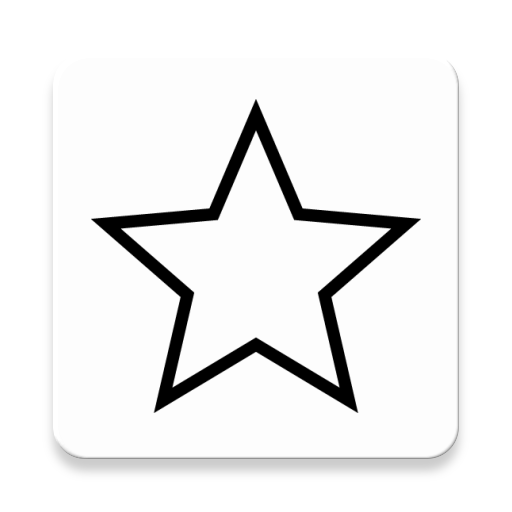
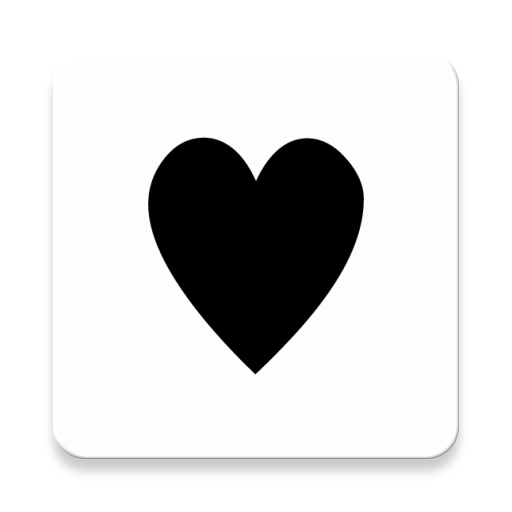
Eight Commit

Changed region(s): [[0.1875, 0.1875, 0.8125, 0.8125]]

diff --git a/app/src/main/java/com/codepath/apps/mysimpletweets/TweetsArrayAdapter.java b/app/src/main/java/com/codepath/apps/mysimpletweets/TweetsArrayAdapter.java
@@ -130,16 +130,25 @@ public class TweetsArrayAdapter  extends ArrayAdapter<Tweet> {
         final ImageView favoriter = (ImageView) convertView.findViewById(R.id.imageView);
         favoriter.setTag(tweet.getUid());
 
+        if (!tweet.getFavorited()) {
+            Picasso.with(getContext()).load(R.mipmap.ic_favorite).into(favoriter);
+        }
+        else if (tweet.getFavorited()) {
+            Picasso.with(getContext()).load(R.mipmap.ic_redfavorited).into(favoriter);
+        }
 
-        if (!pressed) {
-            pressed = true;
+        if (!tweet.getRetweeted()) {
+
             favoriter.setOnClickListener(new View.OnClickListener() {
                 public void onClick(View v) {
+                    tweet.setFavorited(true);
+
                     client = TwitterApplication.getRestClient();
                     client.favorite((Long) favoriter.getTag(), new JsonHttpResponseHandler() {
                         @Override
                         public void onSuccess(int statusCode, Header[] headers, JSONObject json) {
                             Log.d("DEBUG", json.toString());
+                            Picasso.with(getContext()).load(R.mipmap.ic_redfavorited).into(favoriter);
                         }
 
                         @Override
@@ -152,15 +161,18 @@ public class TweetsArrayAdapter  extends ArrayAdapter<Tweet> {
             });
         }
 
-        if (pressed) {
-            pressed = false;
+        else {
+
             favoriter.setOnClickListener(new View.OnClickListener() {
                 public void onClick(View v) {
+                    tweet.setFavorited(false);
+
                     client = TwitterApplication.getRestClient();
                     client.unfavorite((Long) favoriter.getTag(), new JsonHttpResponseHandler() {
                         @Override
                         public void onSuccess(int statusCode, Header[] headers, JSONObject json) {
                             Log.d("DEBUG", json.toString());
+                            Picasso.with(getContext()).load(R.mipmap.ic_favorite).into(favoriter);
                         }
 
                         @Override

diff --git a/app/src/main/java/com/codepath/apps/mysimpletweets/models/Tweet.java b/app/src/main/java/com/codepath/apps/mysimpletweets/models/Tweet.java
@@ -34,8 +34,7 @@ public class Tweet {
         this.name = name;
     }
 
-    public Tweet() {
-    }
+    public Tweet() {}
 
     public void setCreatedAt(String createdAt) {
         this.createdAt = createdAt;
@@ -47,6 +46,7 @@ public class Tweet {
      String name;
      String createdAt;
      boolean retweeted;
+     boolean favorited;
 
     public String getBody() {
         return body;
@@ -70,6 +70,10 @@ public class Tweet {
 
     public void setRetweeted(boolean state) { retweeted = state; }
 
+    public boolean getFavorited() { return favorited; }
+
+    public void setFavorited(boolean state) { favorited = state; }
+
 
     public static Tweet fromJSON(JSONObject jsonObject) {
         Tweet tweet = new Tweet();
@@ -79,6 +83,7 @@ public class Tweet {
             tweet.createdAt = jsonObject.getString("created_at");
             tweet.user = User.fromJSON(jsonObject.getJSONObject("user"));
             tweet.retweeted = jsonObject.getBoolean("retweeted");
+            tweet.favorited = jsonObject.getBoolean("favorited");
             //tweet.name = User.fromJSON(jsonObject.getJSONObject(""));
         } catch (JSONException e) {
             e.printStackTrace();

diff --git a/app/src/main/java/com/codepath/apps/mysimpletweets/TwitterClient.java b/app/src/main/java/com/codepath/apps/mysimpletweets/TwitterClient.java
@@ -117,7 +117,7 @@ public class TwitterClient extends OAuthBaseClient {
     }
 
     public void unfavorite(long id, AsyncHttpResponseHandler handler) {
-        String apiUrl = getApiUrl("favorites/create.json");
+        String apiUrl = getApiUrl("favorites/destroy.json");
         RequestParams params = new RequestParams();
         params.put("id", id);
         getClient().post(apiUrl, params, handler);
